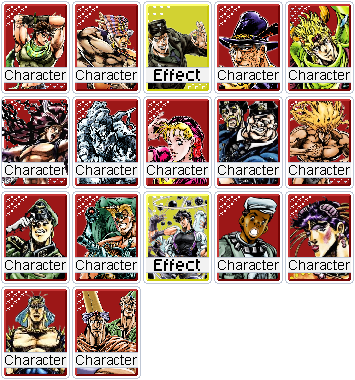
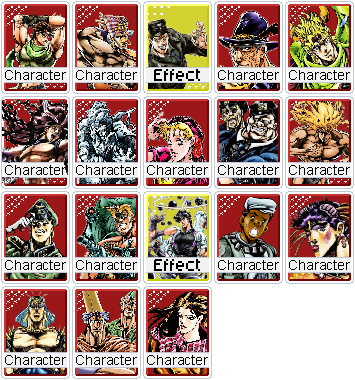
Add Lisa Lisa joker

Changed region(s): [[0.4028, 0.7526, 0.5887, 1.0]]

diff --git a/compendium/labels.py b/compendium/labels.py
@@ -62,7 +62,7 @@ LABELS = Labels(
         'booster_packs': ('Booster packs', 'Get more out of Booster Packs: more of them, previews, and free ones, with In a Silent Way growing from each one opened.'),
         'frugal_shopping': ('Frugal shopping', 'Rewarded for leaving the shop without spending.'),
         'skipping_blinds': ('Skipping blinds', 'Rewarded for skipping blinds.'),
-        'deck_growing': ('Deck growing', 'Pay out for a bigger deck; Doctor Wu and German Engineering add cards.'),
+        'deck_growing': ('Deck growing', 'Pay out for a bigger deck; Doctor Wu, Lisa Lisa and German Engineering add cards.'),
         'deck_shrinking': ('Deck shrinking', 'Goo Goo Dolls pays out for a thinner deck; these destroy cards.'),
         'emperor': ('Emperor', "Emperor's huge XMult comes with a chance to end the run; Rolling Stones sets that chance to 0 and Burning Down the House survives it."),
         'consumable_slots': ('Consumable slots', 'Wamuu pays for every empty consumable slot; Coco Jumbo adds a slot and Space Trucking makes held consumables Negative.'),
@@ -70,6 +70,7 @@ LABELS = Labels(
     },
     similar={
         'card_preview': 'Card preview',
+        'card_added_each_blind': 'Card added each blind',
         'copy_a_joker': 'Copy a joker',
         'speedwagon_s_payouts': "Speedwagon's payouts",
         'suit_mult': 'Suit mult',

diff --git a/compendium/tests/test_mod_data.py b/compendium/tests/test_mod_data.py
@@ -57,4 +57,4 @@ def test_counts_match_themes_doc(mod):
     themes = {t for j in mod.jokers for t in j.themes_core + j.themes_support}
     assert len(themes) == 57
     assert sum(len(j.conflicts) for j in mod.jokers) == 79
-    assert len({g for j in mod.jokers for g in j.similar}) == 26
+    assert len({g for j in mod.jokers for g in j.similar}) == 27

diff --git a/compendium/tests/test_build.py b/compendium/tests/test_build.py
@@ -28,7 +28,7 @@ def test_outputs_exist(site):
 
 
 def test_data_has_every_joker(data):
-    assert len(data["jokers"]) == 168 and data["version"] == "v9.9.9"
+    assert len(data["jokers"]) == 169 and data["version"] == "v9.9.9"
     assert len(data["themes"]) == 57
 
 

diff --git a/compendium/tests/test_lua_env.py b/compendium/tests/test_lua_env.py
@@ -7,7 +7,7 @@ def find(mod, key):
 
 
 def test_loads_every_joker(mod):
-    assert len(mod.jokers) == 168
+    assert len(mod.jokers) == 169
 
 
 def test_order_is_collection_order(mod):
